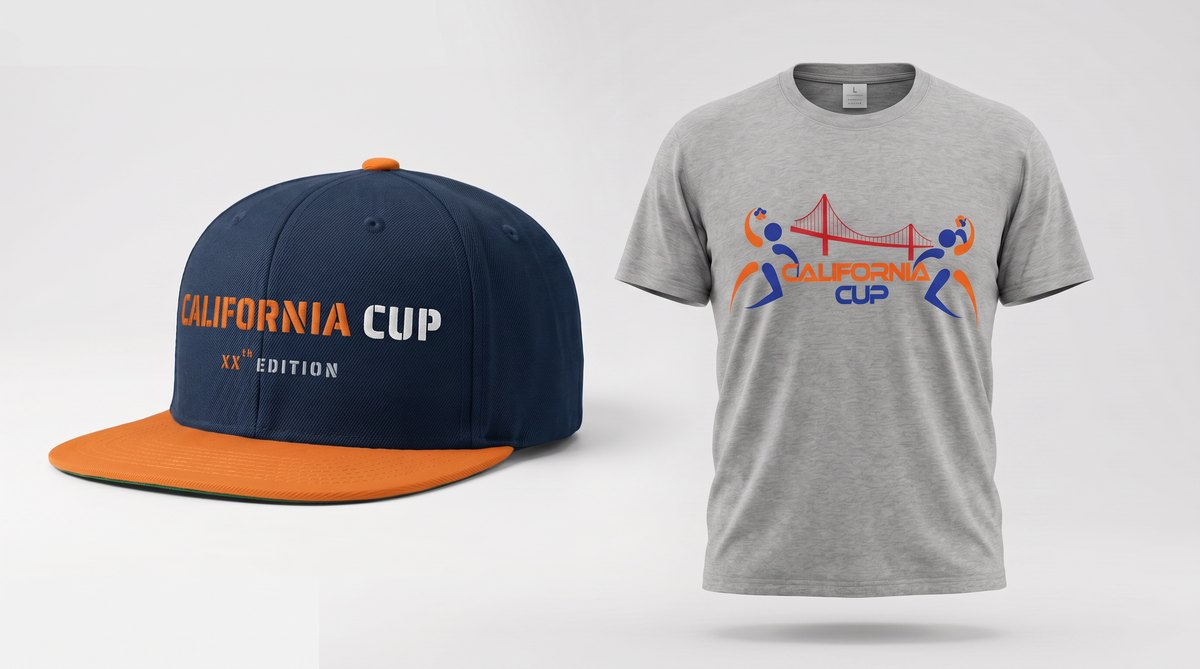
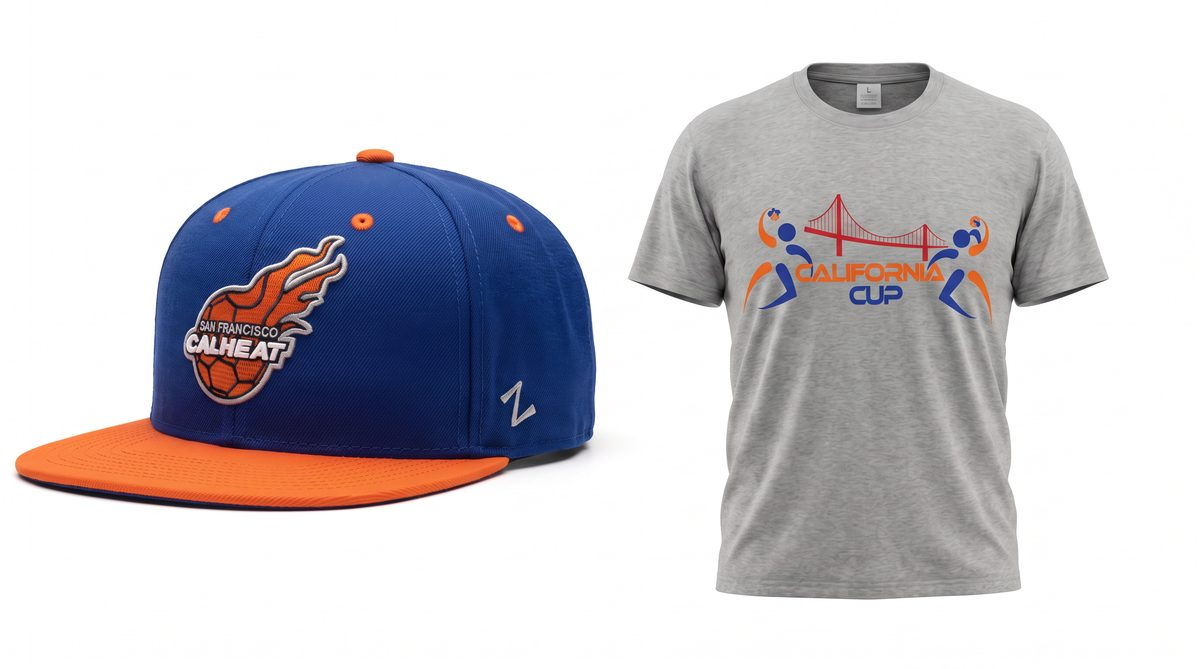
Visual merch

diff --git a/site/data/data.js b/site/data/data.js
@@ -1899,11 +1899,6 @@ window.CALCUP = {
         "n": "Veg Sandwich + Gatorade",
         "d": "Vegetarian sandwich + Gatorade",
         "p": "$6"
-      },
-      {
-        "n": "Athlete Fuel Pack",
-        "d": "Banana + Gatorade + Clif bar",
-        "p": "$4.50"
       }
     ],
     "merch": {
@@ -1932,24 +1927,9 @@ window.CALCUP = {
       ],
       "bundles": [
         {
-          "n": "Family Bundle",
-          "d": "3 CalCup t-shirts",
-          "p": "$50"
-        },
-        {
           "n": "Elite Bundle",
           "d": "Hummel jersey + hat",
           "p": "$70"
-        },
-        {
-          "n": "Hat & Shirt Bundle",
-          "d": "Hat + CalCup t-shirt",
-          "p": "$45"
-        },
-        {
-          "n": "Welcome Bundle",
-          "d": "Starter gear set",
-          "p": "$27"
         }
       ]
     }

diff --git a/site/app.js b/site/app.js
@@ -556,17 +556,15 @@
     var menu=(C.menu||[]).map(function(g){return '<div class="card"><h3 style="margin:0 0 8px">'+g.group+'</h3><div class="con-list">'+rows(g.items)+'</div></div>';}).join("");
     var bundles=(C.bundles||[]).map(bcard).join("");
     var M=C.merch||{};
-    var merchExtras=(M.items||M.bundles)?('<section><div class="sec-head"><h2>Jerseys &amp; extras</h2>'+(M.note?'<span class="note">'+M.note+'</span>':'')+'</div><div class="grid cols-3">'+
-      (M.items?'<div class="card"><h3 style="margin:0 0 8px">Jerseys</h3><div class="con-list">'+rows(M.items)+'</div></div>':'')+
-      (M.bundles||[]).map(bcard).join("")+'</div></section>'):'';
+    var merchExtras='';
     function gcard(img,name,desc,price){
       var im=img?'<div class="gear-img"><img class="zoomable" src="assets/merch/'+img+'" alt="'+name+'" onerror="this.closest(\'.gear-img\').style.display=\'none\'"></div>':'';
       return '<a class="card gear-card" href="#preorder"><span class="preorder-tag">Pre-order</span>'+im+'<div class="gear-name">'+name+'</div><div class="muted" style="font-size:13px">'+desc+'</div><div class="gear-price">'+price+'</div></a>';
     }
     var teeSec='<section class="con-hero card"><div class="con-hero-img"><img class="zoomable" src="assets/merch/calcup-tshirt.jpg" alt="CalCup T-shirt" onerror="this.closest(\'.con-hero\').classList.add(\'noimg\');this.remove()"></div>'+
       '<div class="con-hero-txt"><span class="con-tag">Best seller</span><h2 style="margin:.2em 0">The CalCup tee</h2><p class="muted">Sport-grey heavyweight cotton, three-colour print. Available in <b>men&rsquo;s, women&rsquo;s and kids&rsquo;</b> sizes &mdash; <b>$20</b>, grab yours at the booth.</p></div></section>';
-    function capCard(img,label,visor){ return '<div class="card cap-card"><div class="gear-img"><img class="zoomable" src="assets/merch/'+img+'" alt="'+label+'" onerror="this.closest(\'.gear-img\').style.display=\'none\'"></div><div class="gear-name">'+label+'</div><div class="muted" style="font-size:13px">'+visor+' &middot; embroidered CalHeat crest</div><div class="gear-price">$35</div></div>'; }
-    var capSec='<section><div class="sec-head"><h2>CalHeat cap</h2><span class="note">two styles &middot; $35 each &middot; at the concession stand</span></div><div class="grid cols-2">'+
+    function capCard(img,label,visor){ return '<div class="card cap-card"><div class="gear-img"><img class="zoomable" src="assets/merch/'+img+'" alt="'+label+'" onerror="this.closest(\'.gear-img\').style.display=\'none\'"></div><div class="gear-name">'+label+'</div><div class="muted" style="font-size:13px">'+visor+' &middot; embroidered CalHeat crest</div><div class="gear-price">$25</div></div>'; }
+    var capSec='<section><div class="sec-head"><h2>CalHeat cap</h2><span class="note">two styles &middot; $25 each &middot; at the concession stand</span></div><div class="grid cols-2">'+
       capCard('calheat-cap-flat.jpg','CalHeat cap &mdash; flat visor','Flat visor')+
       capCard('calheat-cap-curved.jpg','CalHeat cap &mdash; curved visor','Curved visor')+
       '</div></section>';
@@ -587,15 +585,15 @@
     var athleteVis='<svg class="deal-svg" viewBox="0 0 160 120" xmlns="http://www.w3.org/2000/svg" role="img" aria-label="Banana and sports drink"><path d="M14 70 C 4 44 22 14 60 12 C 44 22 32 42 35 58 C 37 70 48 71 58 65 C 46 78 22 80 14 70 Z" fill="#F4C22B" stroke="#D9A400" stroke-width="2.5" stroke-linejoin="round"/><path d="M58 13 l7 -5 3 6 -7 4 Z" fill="#6b4a1b"/><g transform="translate(102,8)"><rect x="16" y="0" width="16" height="11" rx="3" fill="#A8420C"/><path d="M12 13 h24 a9 9 0 0 1 9 9 v66 a11 11 0 0 1 -11 11 h-20 a11 11 0 0 1 -11 -11 v-66 a9 9 0 0 1 9 -9 Z" fill="#EA6A1E"/><rect x="2" y="44" width="44" height="30" rx="3" fill="#ffffff"/><path d="M26 48 l-10 15 h7 l-4 11 14 -17 h-7 Z" fill="#EA6A1E"/></g></svg>';
     var dealsSec='<section><div class="sec-head"><h2>Bundles &amp; deals</h2><span class="note">grab them at the concession stand</span></div><div class="grid cols-3 deal-grid">'+
       dealCard({theme:'',save:'$10',title:'Family bundle',desc:'3 CalCup tees &mdash; pick your sizes',price:'$50',value:'$60 value',cta:'Concession stand',cicon:'ti-shopping-bag',vis:'<img class="deal-img" src="assets/merch/family-bundle.jpg" alt="Three CalCup tees" onerror="this.style.display=\'none\'">'})+
-      dealCard({theme:'',save:'$10',title:'Hat &amp; shirt bundle',desc:'CalHeat cap + CalCup tee',price:'$45',value:'$55 value',cta:'Concession stand',cicon:'ti-shopping-bag',vis:'<div class="deal-duo"><img class="deal-img" src="assets/merch/calheat-cap-flat.jpg" alt="CalHeat cap" onerror="this.style.display=\'none\'">'+teeImg+'</div>'})+
-      dealCard({theme:'',save:'$5',title:'Welcome bundle',desc:'CalCup tee + $12 prepaid card',price:'$27',value:'$32 value',cta:'Concession stand',cicon:'ti-shopping-bag',vis:'<div class="deal-duo">'+teeImg+'<span class="deal-icon"><i class="ti ti-credit-card"></i></span></div>'})+
-      dealCard({theme:'deal-orange',save:'',title:'Prepaid card',desc:'Pay $10, get $12 to spend',price:'$10',value:'$12 value',cta:'Concession stand',cicon:'ti-credit-card',vis:'<span class="deal-icon big"><i class="ti ti-credit-card"></i></span>'})+
+      dealCard({theme:'',save:'$5',title:'Hat &amp; shirt bundle',desc:'CalHeat cap + CalCup tee',price:'$40',value:'$45 value',cta:'Concession stand',cicon:'ti-shopping-bag',vis:'<img class="deal-img" src="assets/merch/hat-shirt-bundle.jpg" alt="CalHeat cap and CalCup tee" onerror="this.style.display=\'none\'">'})+
+      dealCard({theme:'',save:'$5',title:'Welcome bundle',desc:'CalCup tee + $12 prepaid card',price:'$27',value:'$32 value',cta:'Concession stand',cicon:'ti-shopping-bag',vis:'<img class="deal-img" src="assets/merch/welcome-bundle.jpg" alt="CalCup tee and $12 Welcome Bundle prepaid card" onerror="this.style.display=\'none\'">'})+
+      dealCard({theme:'deal-orange',save:'',title:'Prepaid card',desc:'Pay $10, get $12 to spend',price:'$10',value:'$12 value',cta:'Concession stand',cicon:'ti-credit-card',vis:'<img class="deal-img" src="assets/merch/prepaid-card.jpg" alt="$12 SF CalHeat prepaid card" onerror="this.style.display=\'none\'">'})+
       dealCard({theme:'',save:'$0.50',title:'Athlete bundle',desc:'Banana + energy bar + sports drink',price:'$4.50',value:'$5 value',cta:'Concession stand',cicon:'ti-bolt',vis:'<img class="deal-img" src="assets/merch/athlete-bundle.jpg" alt="Banana, energy bar and sports drink" onerror="this.style.display=\'none\'">'})+
       '</div></section>';
     var introBlock='<section><p style="font-size:17px;max-width:760px">'+C.intro+'</p>'+(C.card?'<div class="callout" style="margin-top:10px"><b>'+C.card+'</b></div>':'')+'</section>';
     var hoodieHero='<section><div class="merch-hero"><img class="merch-hero-img zoomable" src="assets/merch/hoodie-model.jpg" alt="CalCup XXth-edition commemorative hoodie" onerror="this.closest(\'section\').style.display=\'none\'"></div>'+
       '<div class="merch-hero-cap"><span class="con-tag">New &middot; XXth edition</span><h2 style="margin:.15em 0">Wear the 20th California Cup</h2><p class="muted" style="max-width:640px">The commemorative <b>navy hoodie</b> &mdash; CalHeat crest, orange trim. Pre-order below and pick it up courtside.</p></div></section>';
-    el.innerHTML=hoodieHero+gearSec+'<div id="preorder-anchor"></div>'+teeSec+capSec+dealsSec+merchExtras+introBlock+foodSec;
+    el.innerHTML=hoodieHero+gearSec+'<div id="preorder-anchor"></div>'+teeSec+capSec+dealsSec+introBlock+foodSec;
     // The Netlify pre-order form stays static in concession.html (so Netlify detects it);
     // move it into place directly below the commemorative gear.
     var _pf=document.getElementById('preorder'), _anchor=document.getElementById('preorder-anchor');